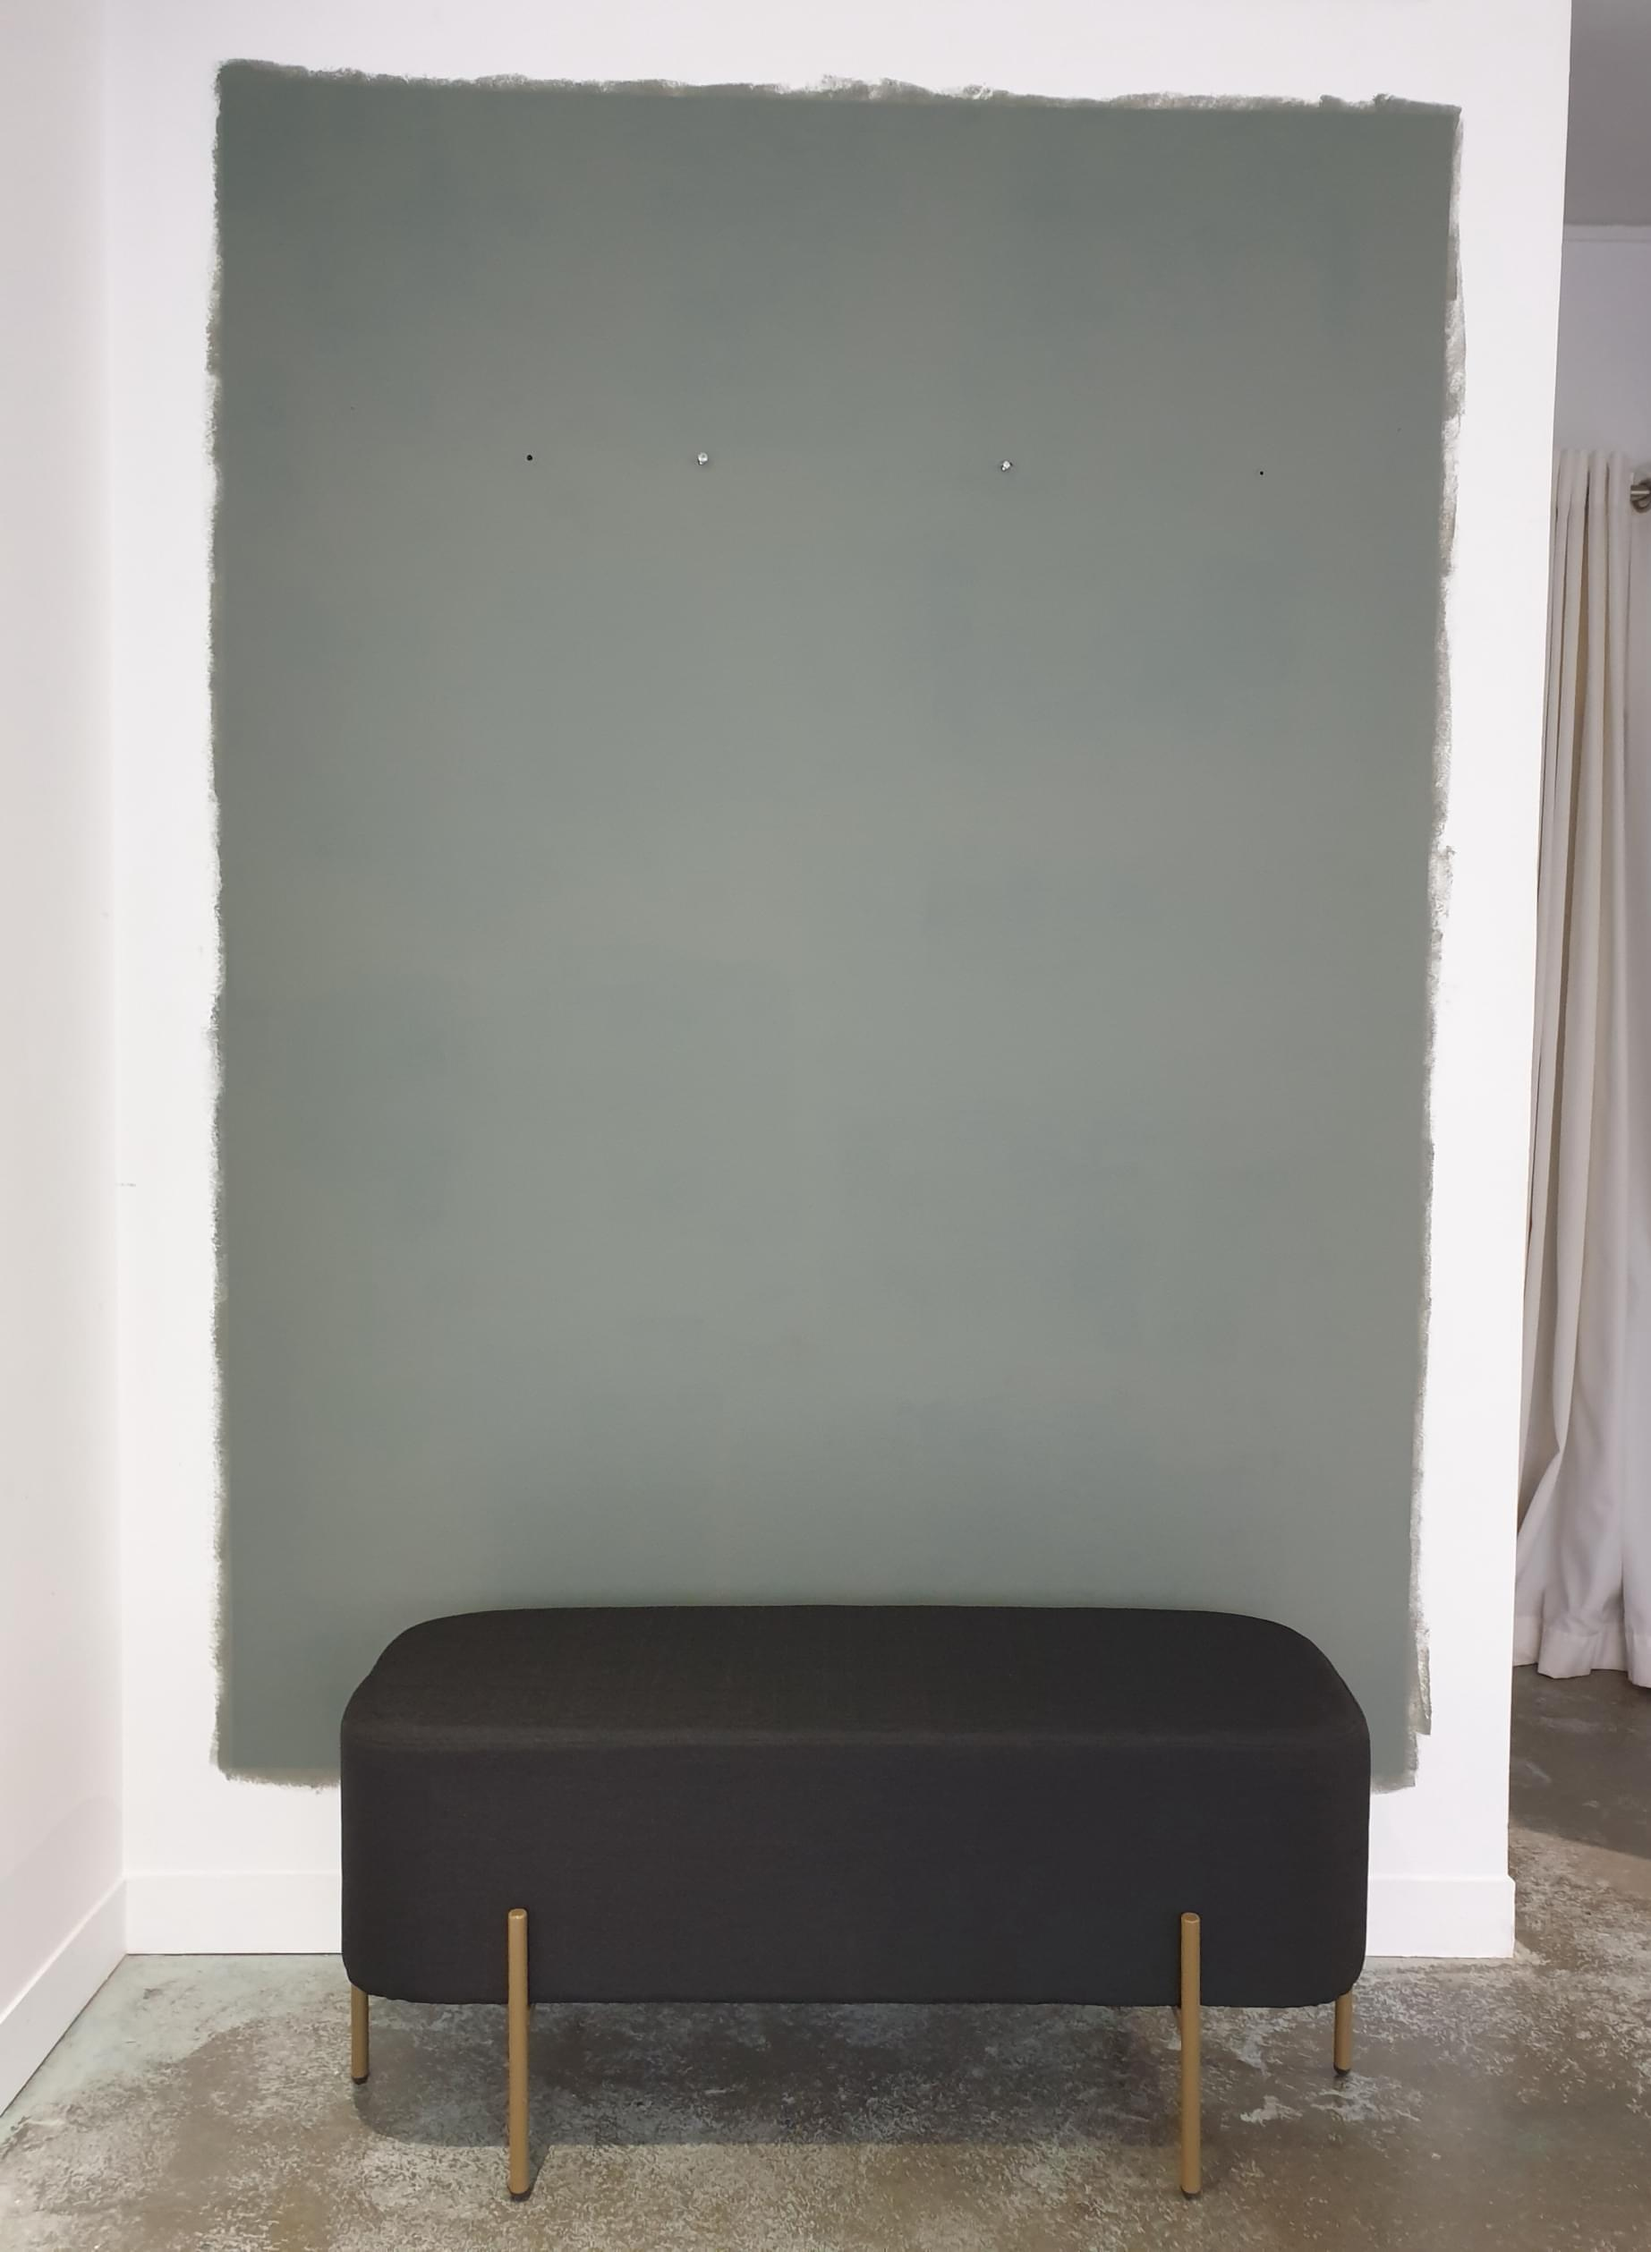
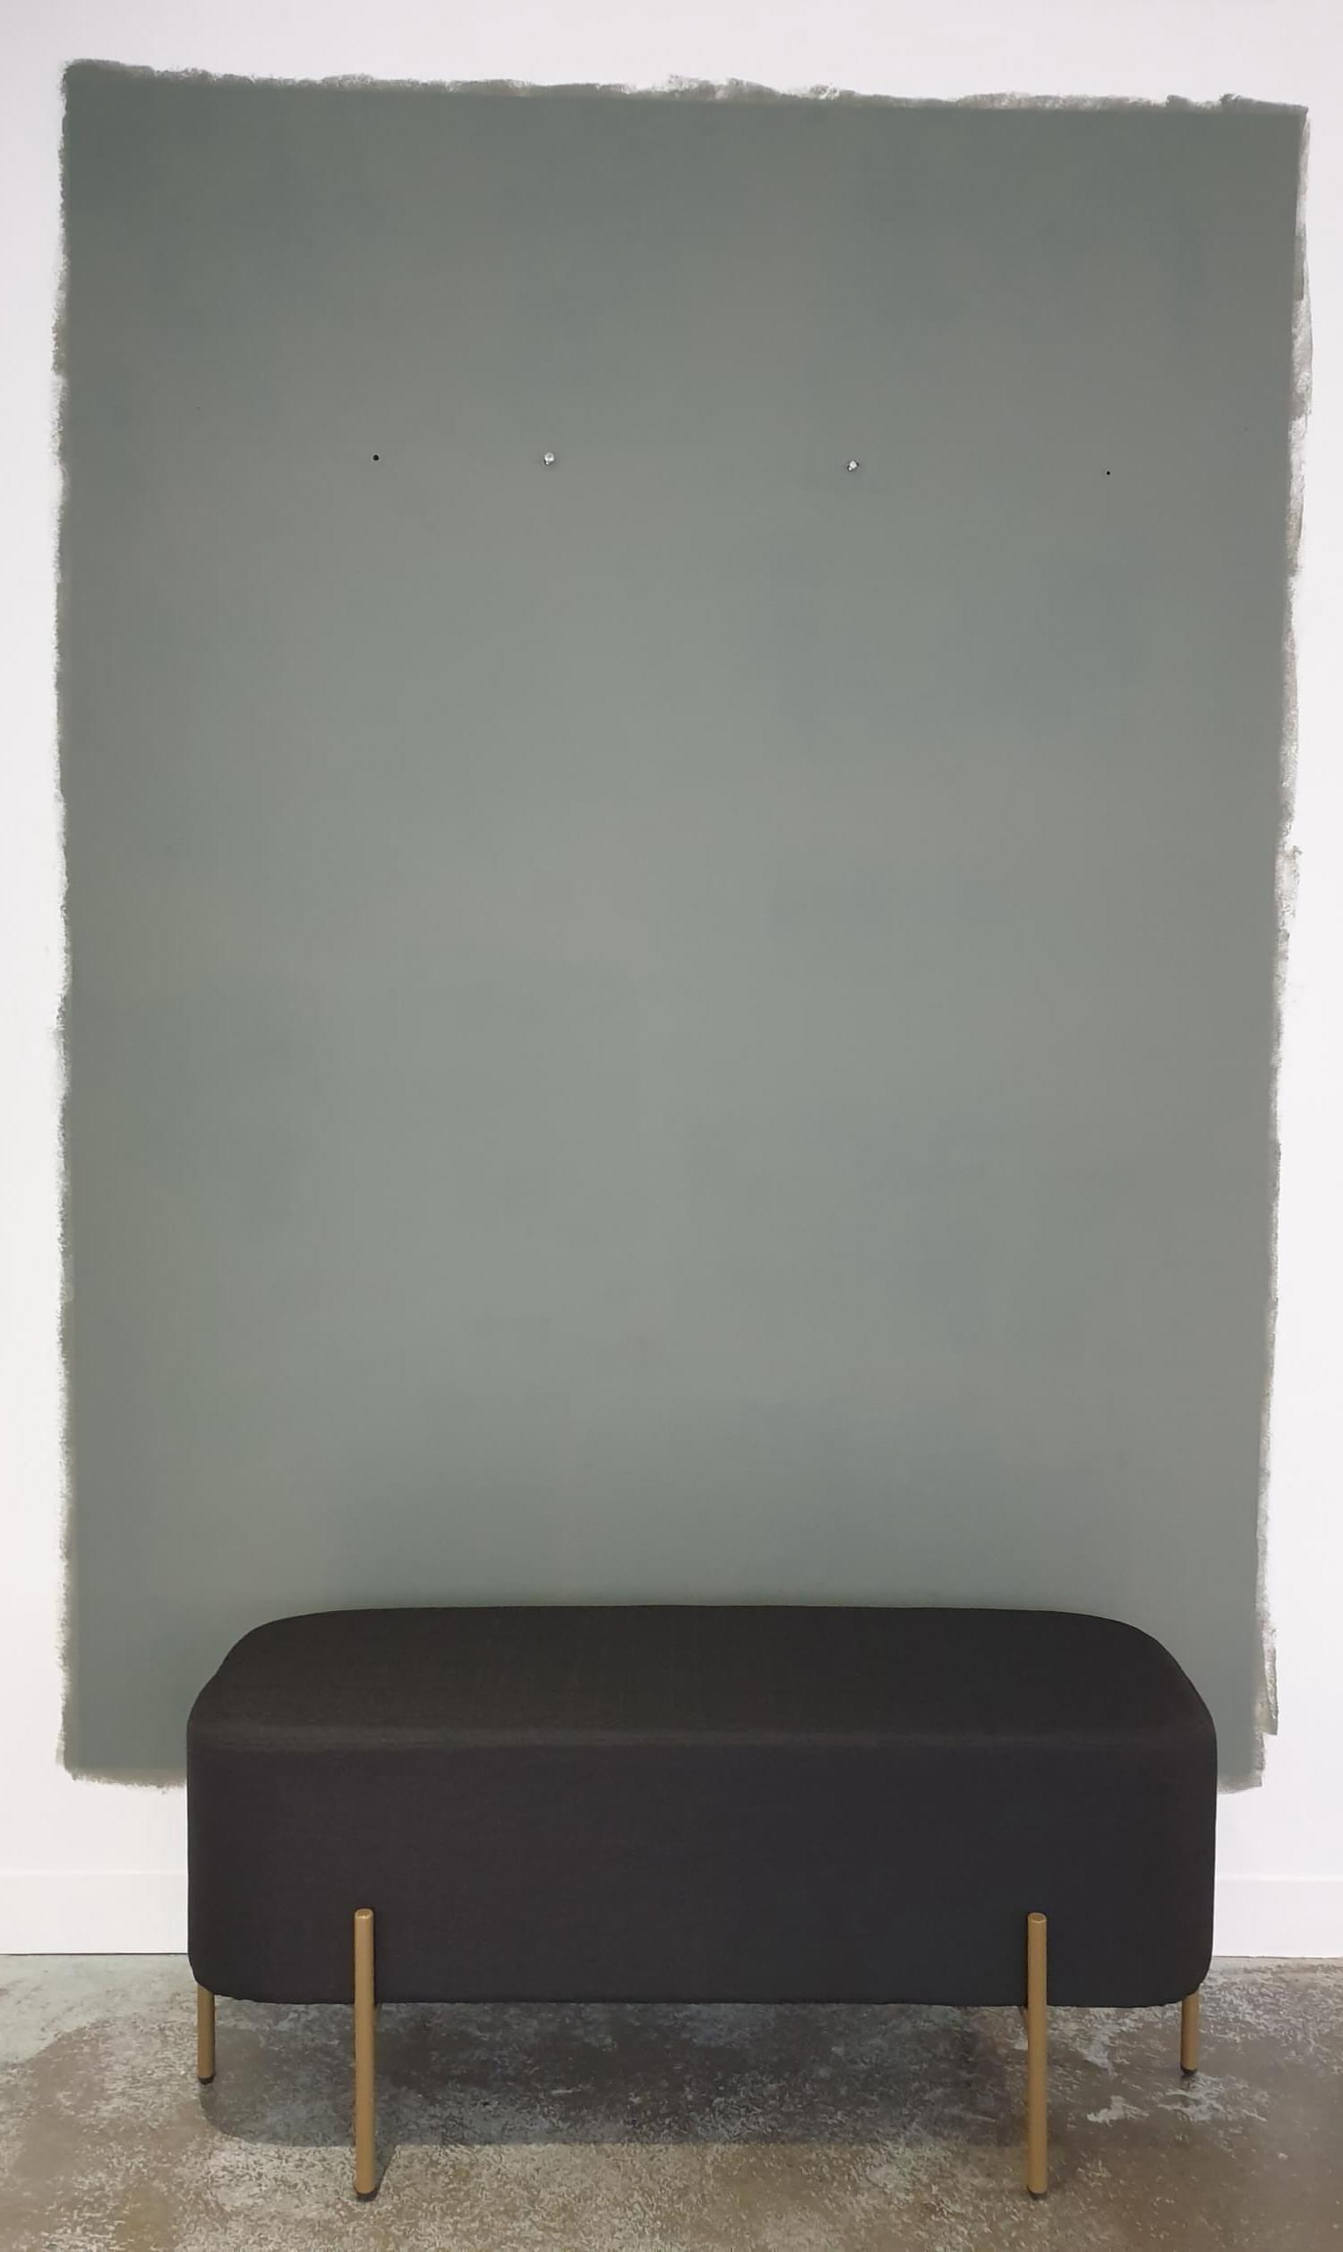
Fix Contextual

diff --git a/src/components/Contextual.js b/src/components/Contextual.js
@@ -9,7 +9,7 @@ const Contextual = ({ work, ...props }) => {
       height: [1, 180],
       width: [1, 140],
       ratio: 220, // (width of the picture in cm)
-      container: '11% 0 42%',
+      container: '24% 0 42%',
     },
   }
 
@@ -99,11 +99,16 @@ Contextual.styles = {
   },
   work: {
     position: 'absolute',
+    display: 'flex',
+    alignItems: 'flex-start',
     top: 0,
     bottom: 0,
-    '>span>img': {
-      objectFit: 'contain',
-      background: 'transparent',
+    '>span': {
+      height: 'auto',
+      '>img': {
+        objectFit: 'contain',
+        background: 'transparent',
+      },
     },
   },
   close: {
